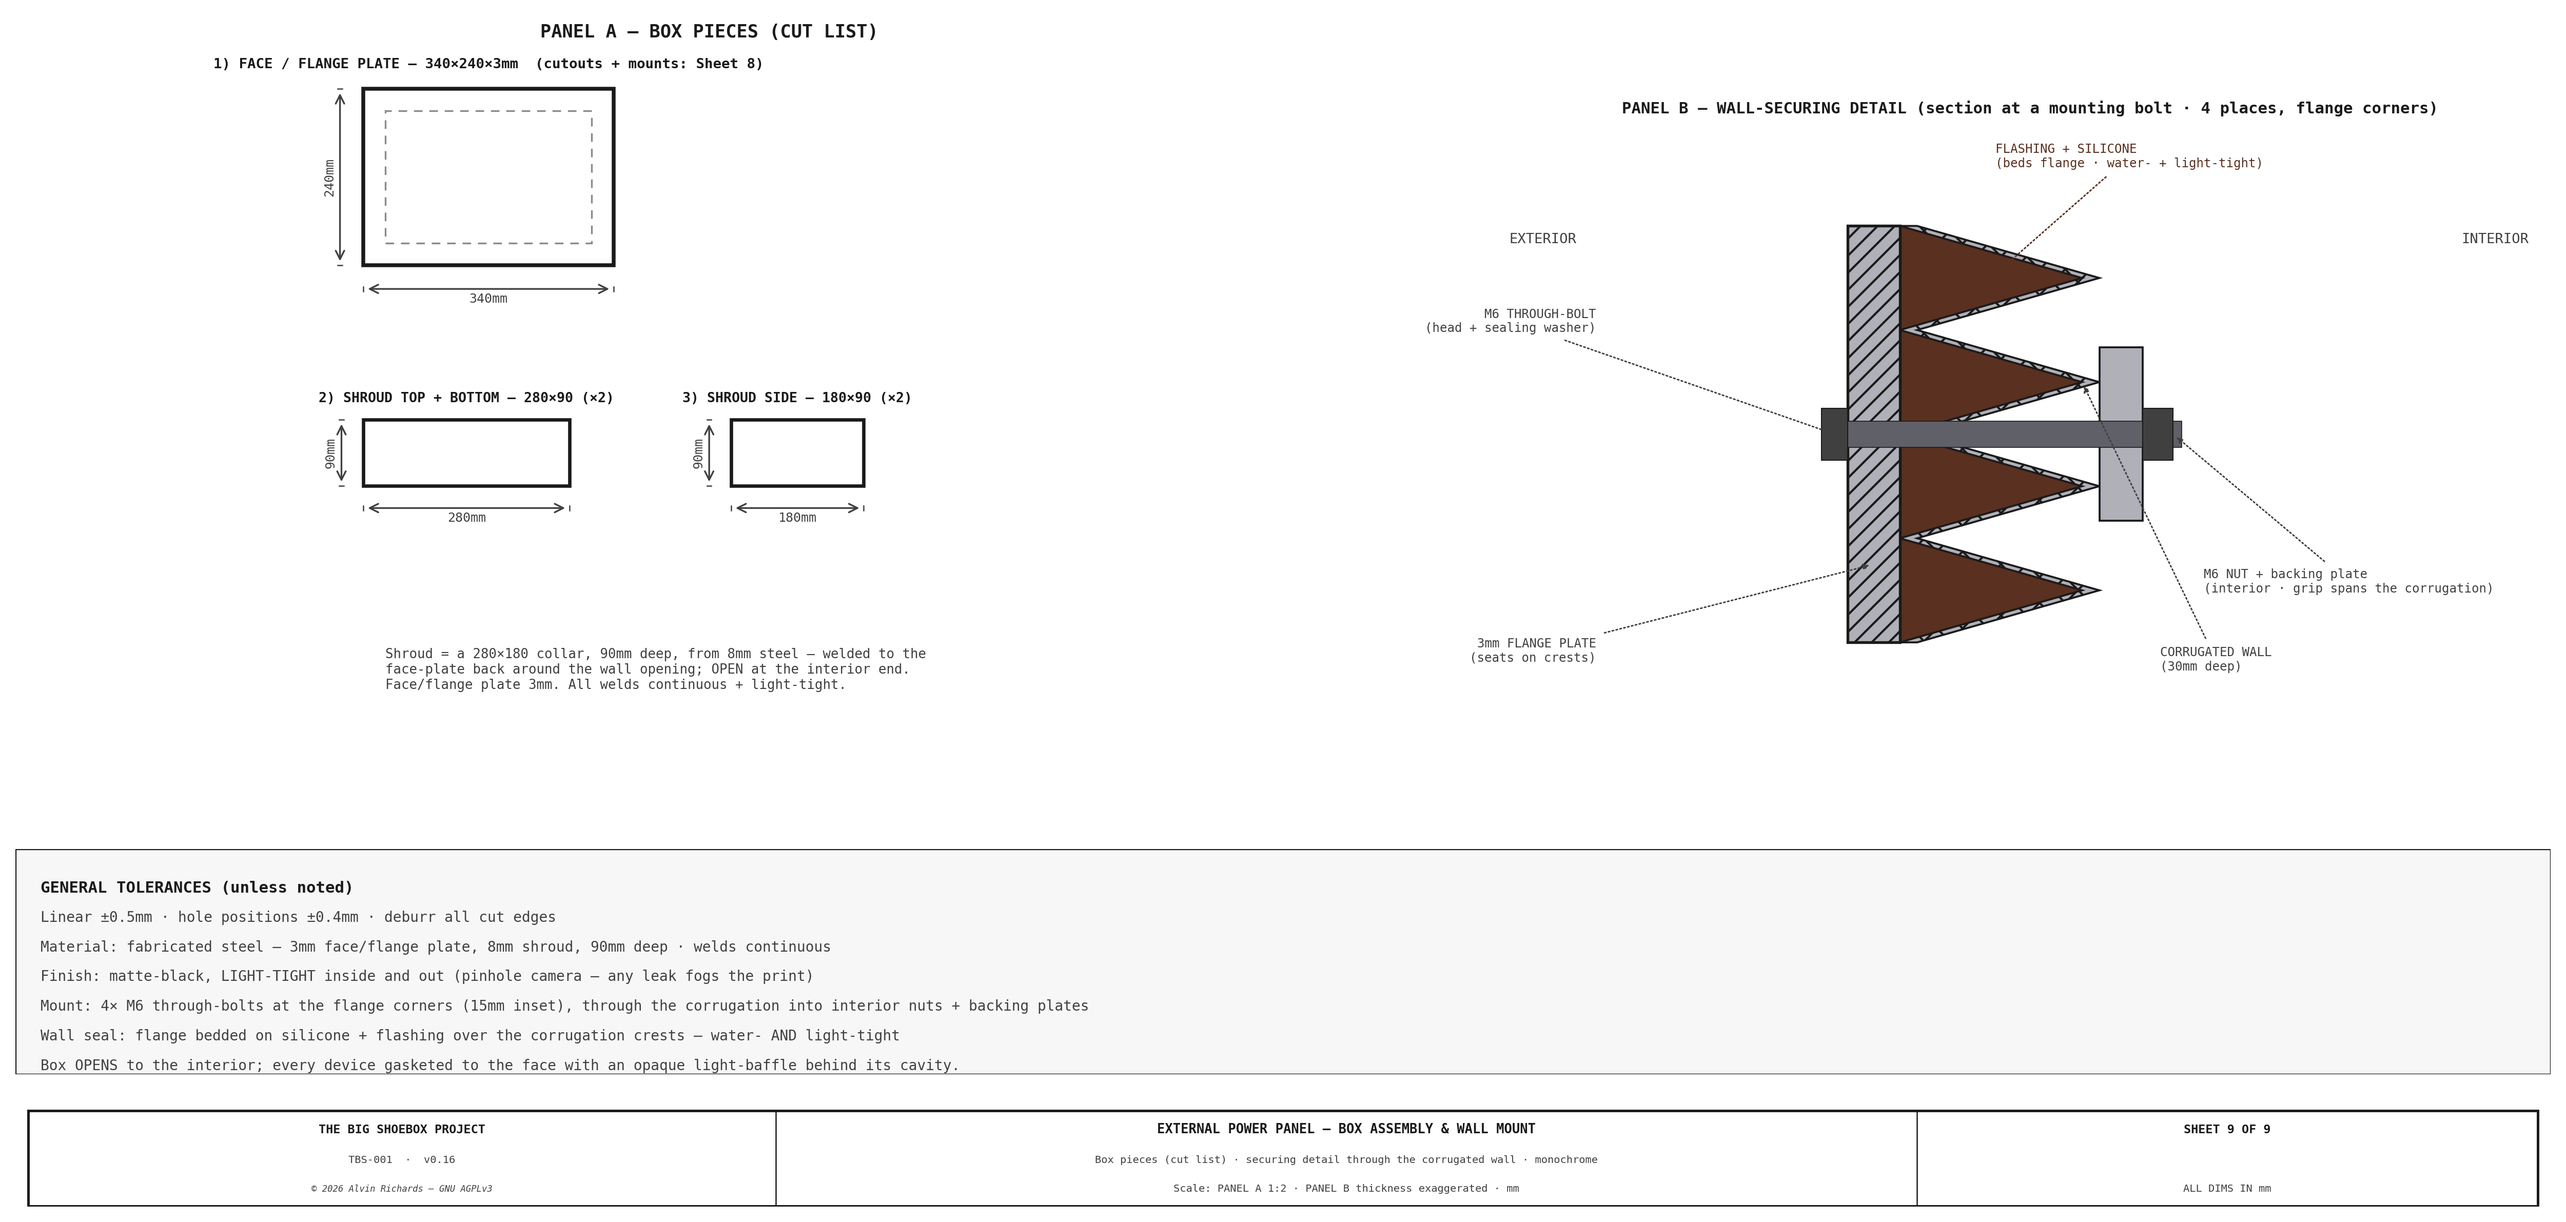
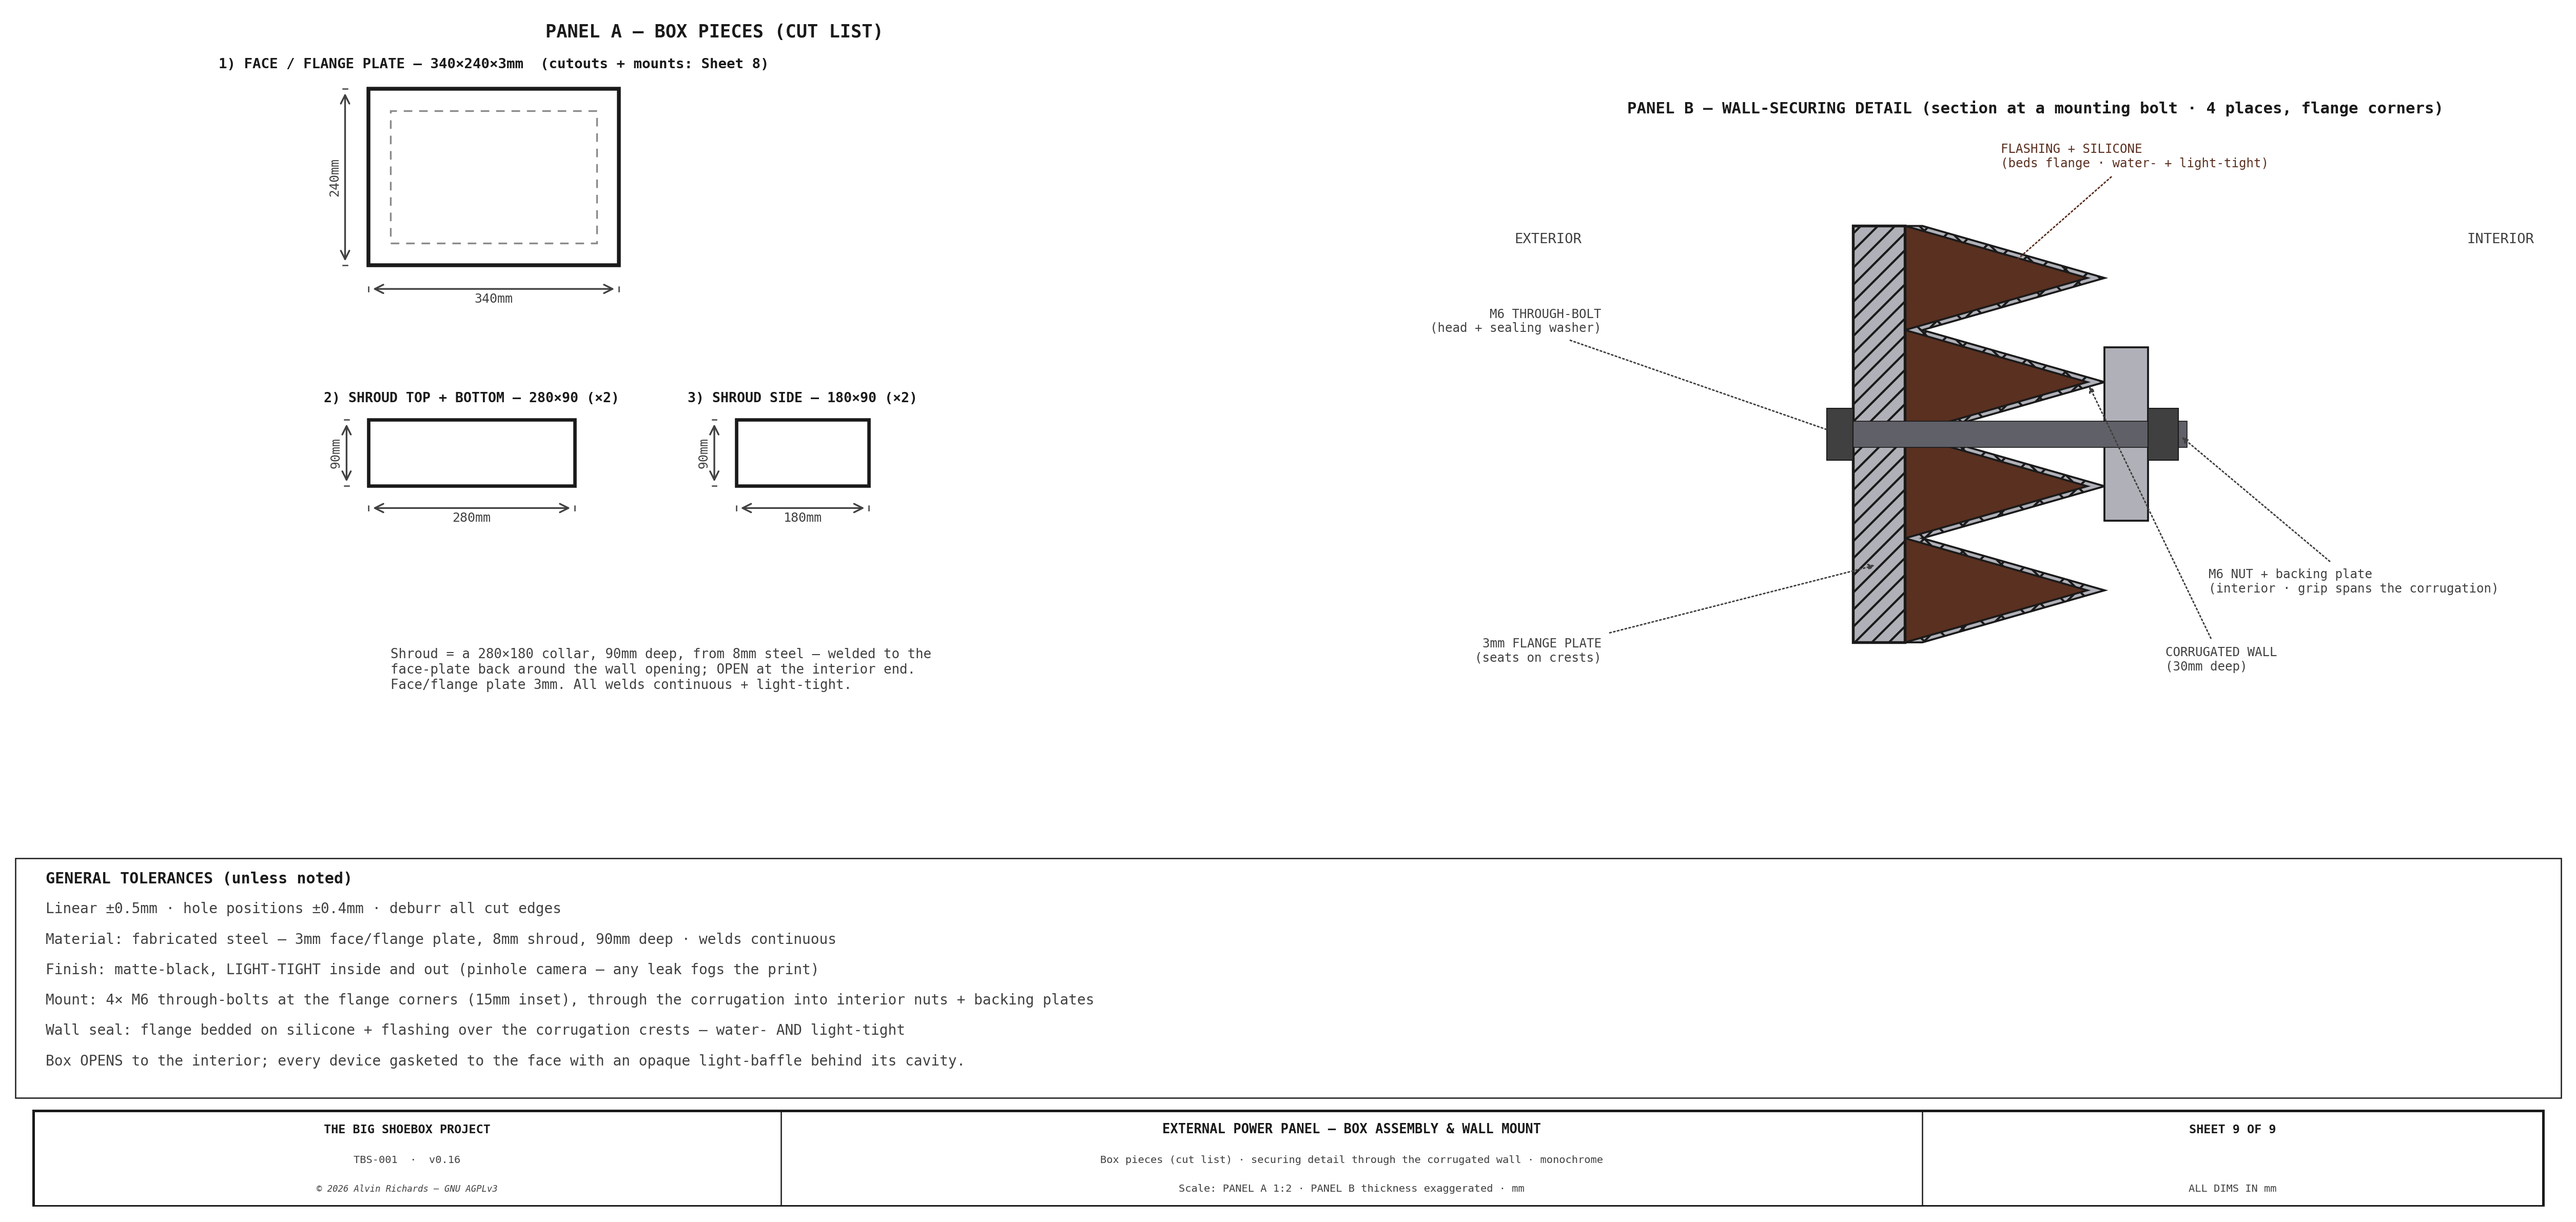
Tolerance blocks: PDH + electrical onto draw_notes (sweep complete)
Replace the hand-rolled fig.add_axes + Rectangle + text-loop tolerance/note
blocks with draw_notes (bold first-line title + bordered box), matching the
shelf refactor — every tolerance/note block is now one code path. PDH sheet 3
and electrical sheet 9 regenerated, output-equivalent. IBC-frame was already
compliant (its _datum_tol_block already called draw_notes).

diff --git a/src/generators/generate_pinhole_disc_holder.py b/src/generators/generate_pinhole_disc_holder.py
@@ -30,7 +30,7 @@ from tbs_constants import (
     PDH_LENS_COPAL0, PDH_LENS_COPAL1, PDH_LENS_COPAL3,
 )
 from tbs_title_block import title_block
-from tbs_drawing import draw_dim_h, draw_dim_v, draw_cl, draw_circle, leader
+from tbs_drawing import draw_dim_h, draw_dim_v, draw_cl, draw_circle, leader, draw_notes
 
 # ── Style ─────────────────────────────────────────────────────────────────────
 LW_THICK, LW_MED, LW_THIN, LW_CUT = 1.8, 1.0, 0.5, 2.2
@@ -197,22 +197,19 @@ def draw_sheet2():
 
 
 def _tol_block(fig, rect, title="GENERAL TOLERANCES (unless noted)"):
-    """A CNC-shop tolerance/notes block placed at `rect` [l,b,w,h] on the figure."""
+    """A CNC-shop tolerance/notes block (house draw_notes helper, bold first-line title)
+    placed at `rect` [l,b,w,h] on the figure."""
     ax = fig.add_axes(rect); ax.axis('off'); ax.set_xlim(0, 1); ax.set_ylim(0, 1)
-    ax.add_patch(mpatches.Rectangle((0, 0), 1, 1, fc='#F7F7F7', ec=C_OUT, lw=0.8))
     rows = [
-        f"{title}",
+        title,
         "Linear ≤6mm ±0.1 · ≤30 ±0.2 · >30 ±0.3    Angular ±0.5°",
         f"Bores: Ø{PDH_DISC_SEAT_D} disc seat H7 (+0.035/0) · Ø{PDH_APERTURE} aperture +0.2/0 · Ø{PDH_RING_ID} ring bore ±0.1",
         f"PCDs (Ø{BOLT_BC} mount · Ø{PDH_TS_PCD} tap) ±0.15 positional · tapped holes ⊥ to face 0.1",
         "Surfaces: mating/seal faces Ra 1.6 · bores Ra 3.2 · others Ra 6.3 · break sharp edges 0.3×45°",
         "Datum A = plate camera face · B = Ø82 seat axis · finish: black hard-anodize (Al) after machining",
     ]
-    y = 0.90
-    for i, t in enumerate(rows):
-        ax.text(0.02, y, t, fontsize=4.6 if i else 5.2, fontweight='bold' if i == 0 else 'normal',
-                va='center', ha='left', color=C_OUT, family='monospace' if i else 'sans-serif')
-        y -= 0.155
+    draw_notes(ax, rows, 0.02, 0.88, 0.15, fs=4.6, width=0.97,
+               pad_x=0.015, pad_y=0.06, font={"fontfamily": "monospace"})
 
 
 # ══════════════════════════════════════════════════════════════════════════════

diff --git a/src/generators/generate_electrical_diagram.py b/src/generators/generate_electrical_diagram.py
@@ -2536,13 +2536,8 @@ def draw_sheet9():
         "Box OPENS to the interior; every device gasketed to the face with an opaque light-baffle behind its cavity.",
     ]
     axn = fig.add_axes([0.05, 0.10, 0.915, 0.17]); axn.axis("off"); axn.set_xlim(0, 1); axn.set_ylim(0, 1)
-    axn.add_patch(mpatches.Rectangle((0, 0), 1, 1, fc="#F7F7F7", ec=C_OUT, lw=0.8))
-    yy = 0.86
-    for i, ln in enumerate(notes):
-        axn.text(0.01, yy, ln, ha="left", va="top",
-                 fontsize=(7.4 if i == 0 else 6.7), fontweight=("bold" if i == 0 else "normal"),
-                 color=(C_OUT if i == 0 else C_DIM), **FONT)
-        yy -= 0.132
+    draw_notes(axn, notes, 0.01, 0.90, 0.135, fs=6.7, width=0.98,
+               pad_x=0.012, pad_y=0.06, font=FONT)
 
     ax_tb = fig.add_axes([0.05, 0.0, 0.915, 0.085]); ax_tb.set_xlim(0, 1); ax_tb.set_ylim(0, 1); ax_tb.axis("off")
     title_block(ax_tb, "SHEET 9 OF 9",

diff --git a/TODO.md b/TODO.md
@@ -31,13 +31,14 @@ outstanding work, not a history log). Detailed sub-trackers are linked where the
     the constant, only the component NAME text lags). Flip the 5 `M5`→`M6` label/comment strings on the next
     `pinhole-disc-holder` re-send (the name change touches the `.rb` → needs a re-send + push). Size is already
     reconciled to M6 everywhere else (constants, parts, report, all 2D sheets, fastener-standardization.md).
-- [ ] **Tolerance/datum blocks — sweep the hand-rolled `_tol_block`s onto the shared `draw_notes` helper (2026-10-14).**
-  `generate_shelf_diagram.py`'s `_tol_block` was refactored to render via `tbs_drawing.draw_notes` (bold first-line
-  title + bordered box) instead of a hand-rolled `fig.add_axes` + `Rectangle` + text-loop. The **same hand-rolled
-  pattern still lives in `generate_pinhole_disc_holder.py` (`_tol_block`), `generate_ibc_frame_drawing.py`, and
-  `generate_electrical_diagram.py`** — sweep each to `draw_notes` so every tolerance/note block is one code path.
-  Output-equivalent, low-risk. Gotcha: `draw_notes` `pad_x`/`pad_y` default to `spacing`, which bleeds the border
-  left of its placement rect — pass small explicit pads when the block sits in a fig-coord rect (see the shelf fix).
+- [x] **Tolerance/datum blocks — DONE 2026-10-14. Every tolerance/note block now renders via `draw_notes`.**
+  Swept the hand-rolled `fig.add_axes` + `Rectangle` + text-loop pattern onto `tbs_drawing.draw_notes` (bold
+  first-line title + bordered box): `generate_shelf_diagram.py` (`_tol_block`), `generate_pinhole_disc_holder.py`
+  (`_tol_block`, PDH sheet 3), and `generate_electrical_diagram.py` (the power-box notes block, sheet 9). All
+  output-equivalent (verified visually). **`generate_ibc_frame_drawing.py` was already compliant** — its
+  `_datum_tol_block` already called `draw_notes` (the TODO over-listed it from a text-match). Gotcha captured for
+  the future: `draw_notes` `pad_x`/`pad_y` default to `spacing`, which bleeds the border left of a fig-coord rect
+  — pass small explicit pads (see the shelf/PDH fixes).
 - [x] **Audit every sheet's page size — DONE 2026-10-14, clean.** Prompted by shelf-sheet4, where an
   `aspect="equal"` data axes was narrower than the figure, so a figure-coord block floated in the right margin
   *beyond* the title block. Fix pattern (applied to the shelf): size `figsize` so its aspect ≈ the data aspect
